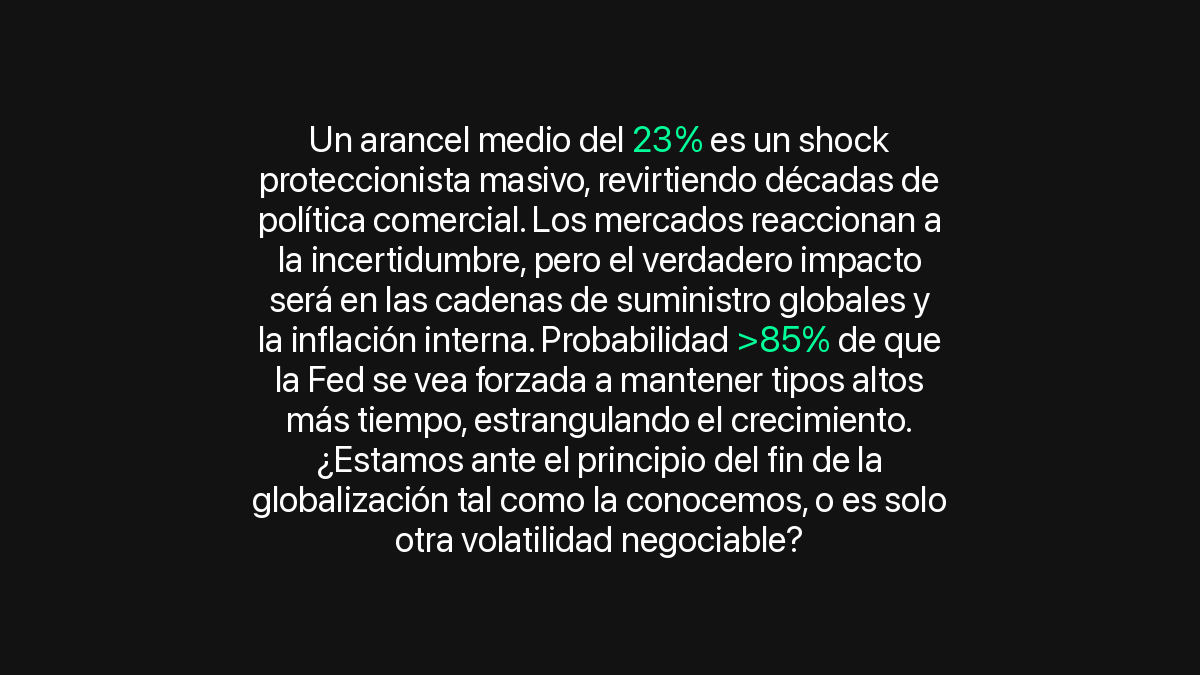
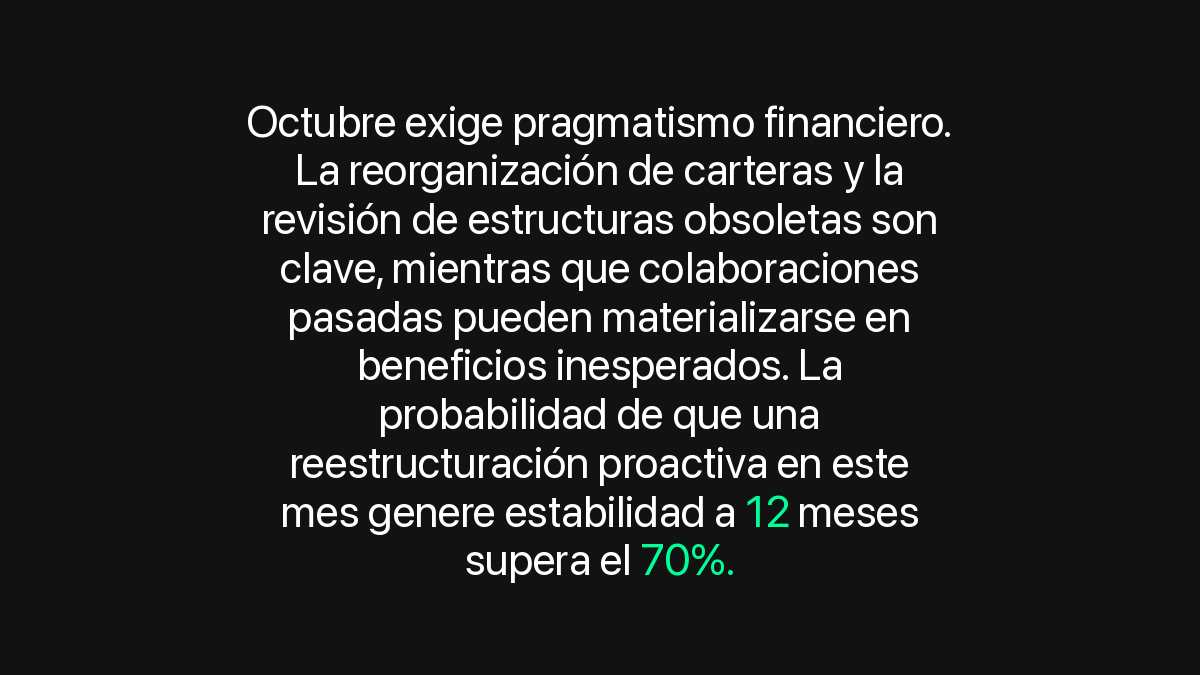
Refine macro draft generation and infographic output

Changed region(s): [[0.185, 0.1556, 0.8017, 0.8711]]

diff --git a/macro_engine.py b/macro_engine.py
@@ -3,7 +3,7 @@ import random
 import re
 import textwrap
 import time
-from datetime import datetime
+from datetime import datetime, timedelta
 from typing import Optional
 
 import requests
@@ -13,73 +13,88 @@ from openai import OpenAI
 
 load_dotenv()
 
-
 def get_hot_macro_news():
-    """Radar de alta precision: PIB, metales, bancos centrales y geopolitica."""
     api_key = os.getenv("TAVILY_API_KEY")
+    now = datetime.now()
 
-    # Busqueda de impacto directo con datos reales y foco macro
-    temas_clave = (
-        "PIB GDP growth crecimiento, "
-        "gold oro silver plata metales record, "
-        "Fed interest rates tipos, "
-        "Trump tariffs aranceles, "
-        "China datos macro, "
-        "UE Eurozona ECB BCE"
+    # Lógica de ventana: Si estamos a final de mes/trimestre, miramos al frente
+    # Si quedan menos de 10 días para el mes siguiente, pivotamos la búsqueda
+    if (now + timedelta(days=10)).month != now.month:
+        proximo_mes = (now + timedelta(days=10)).strftime("%B")
+        anio_objetivo = (now + timedelta(days=10)).year
+        contexto_temporal = f"expectations and early signals for {proximo_mes} {anio_objetivo}"
+    else:
+        contexto_temporal = f"current market drivers and volatility for {now.strftime('%B %Y')}"
+
+    # Buscamos por "catalizadores" y "sorpresas", no por etiquetas fijas
+    query = (
+        f"{contexto_temporal}, "
+        "institutional rebalancing and dark pool activity, "
+        "breaking financial news with immediate price impact, "
+        "unusual options flow and market sentiment shifts"
     )
-
-    query = f"financial news {datetime.now().strftime('%Y-%m-%d')} {temas_clave}"
 
     payload = {
         "api_key": api_key,
         "query": query,
         "search_depth": "advanced",
-        "max_results": 10,
+        "max_results": 12,
+        "time_range": "day",
+        "include_raw_content": True
     }
+
     try:
-        print("[*] Escaneando datos duros del mercado...")
-        r = requests.post("https://api.tavily.com/search", json=payload, timeout=15)
+        print(f"[*] Escaneando ventana de impacto: {contexto_temporal}...")
+        r = requests.post("https://api.tavily.com/search", json=payload, timeout=30)
         return r.json().get("results", [])
     except Exception as e:
         print(f"[!] Error: {e}")
         return []
 
-
 def select_diverse_news(news_results):
-    """Filtra noticias para evitar repeticiones y priorizar datos reales."""
     final_selection = []
     temas_vistos = set()
 
-    for item in news_results:
-        text = (item.get("title", "") + " " + item.get("content", "")).lower()
+    # Mezclamos un poco para no coger siempre lo mismo si hay muchos resultados
+    random.shuffle(news_results)
 
-        # Priorizamos que la noticia tenga numeros (datos)
+    for item in news_results:
+        title = item.get("title", "")
+        content = item.get("content", "")
+        text = (title + " " + content).lower()
+
+        # 1. Filtro de Datos: Priorizamos noticias con movimiento numérico
         has_numbers = any(char.isdigit() for char in text)
         if not has_numbers:
             continue
 
+        # 2. Nueva lógica de categorización más amplia
         if any(x in text for x in ["gold", "oro", "silver", "plata"]):
             tema = "metales"
         elif any(x in text for x in ["gdp", "pib", "growth", "crecimiento"]):
             tema = "crecimiento"
-        elif any(x in text for x in ["tariff", "arancel", "trade war"]):
-            tema = "comercio"
-        elif any(x in text for x in ["fed", "ecb", "bce", "rates", "tipos"]):
+        elif any(x in text for x in ["fed", "ecb", "bce", "rates", "tipos", "powell", "lagarde"]):
             tema = "bancos_centrales"
+        elif any(x in text for x in ["altman", "musk", "saylor", "burry", "buffett", "nvidia", "apple", "tesla", "openai"]):
+            # Capturamos a los "Market Movers" que mencionabas
+            tema = "market_movers"
+        elif any(x in text for x in ["ai", "ia", "tech", "tecnología", "breakthrough", "disrupción"]):
+            tema = "disrupcion_tech"
         else:
-            tema = "otros"
+            tema = "otros_impacto"
 
+        # 3. Solo añadimos si el tema no está repetido en este ciclo
         if tema not in temas_vistos:
             final_selection.append(item)
             temas_vistos.add(tema)
 
+        # Límite de 3 noticias por hora para no saturar
         if len(final_selection) >= 3:
             break
+
     return final_selection
 
-
 def generate_expert_post(client: OpenAI, news_content: str, source_name: str):
-    """Genera posts con análisis, probabilidades y preguntas punzantes."""
     suggested_handle = _guess_source_handle(source_name) or source_name
     prompt = f"""
 NOTICIA: {news_content}
@@ -91,32 +106,27 @@ TAREA: Devuelve una respuesta dividida en 2 partes usando EXACTAMENTE el separad
 PARTE 1 (IMAGEN):
 - Análisis macro corto + dato(s) numéricos + Probabilidad específica.
 - NO incluyas hashtags ni fuentes aquí.
-- IMPORTANTE: Termina esta parte con una PREGUNTA abierta y punzante que invite al debate.
 
 ###
 
-PARTE 2 (POST):
-- 1 titular de impacto que resuma la noticia (1 línea).
-- 1 línea con la fuente usando HANDLE_SUGERIDO (ej. "Fuente: @bloomberg").
-- 1 línea con máximo 2 hashtags.
+PARTE 2 (POST PARA X):
+- Una PREGUNTA que se entienda sola, incluyendo el contexto y la cifra clave (ej: "¿Es realista que el Bitcoin alcance los 150K tras este último movimiento de Saylor?").
+- 1 línea con la fuente: "Fuente: {suggested_handle}".
+- 1 línea con 1 o 2 hashtags (trending).
 
 REGLAS:
 1. IDIOMA: Español de España.
-2. ESTILO: Analista de Hedge Fund, directo y provocador.
-3. LONGITUD: Mantén el total de la respuesta breve para que quepa en la imagen.
+2. AUTONOMÍA: El post debe entenderse sin mirar la imagen. Prohibido usar "esta noticia" o "¿llegará a ese precio?". Nombra el precio y el activo.
+3. ESTILO: Analista senior, directo y provocador.
 """
     try:
         resp = client.chat.completions.create(
             model="deepseek-chat",
             messages=[
-                {
-                    "role": "system",
-                    "content": "Analista financiero senior. Tu objetivo es generar debate y engagement en X mediante preguntas desafiantes.",
-                },
+                {"role": "system", "content": "Generas contenido financiero de alto impacto para X. Tus posts deben ser autosuficientes y generar debate inmediato."},
                 {"role": "user", "content": prompt},
             ],
-            # Subimos la temperatura para que las preguntas sean más originales y variadas
-            temperature=0.7, 
+            temperature=0.7,
         )
         return resp.choices[0].message.content.strip()
     except Exception:
